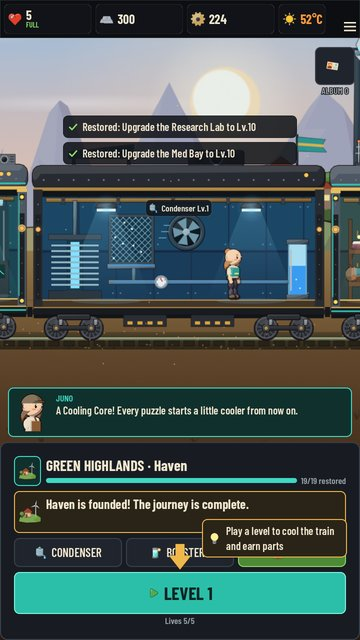
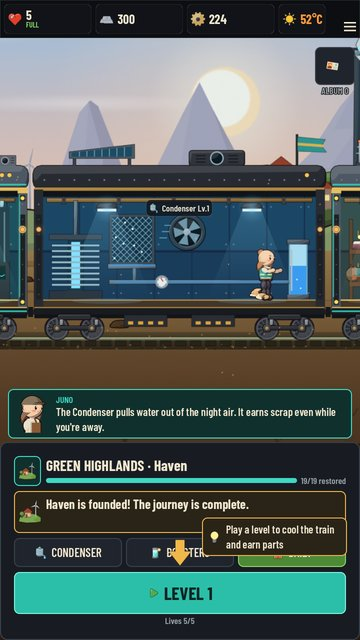
Archive as a learning project: README intro and region screenshots
- README opens with an archived-project note and what the code shows
  (Blender-scripted art, solver-proven levels, physics mini-game, meta
  systems, screenshot tour, CLI TestFlight pipeline).
- Region screenshots for all five regions. The region tour now waits for
  and closes the livery popup before each shot.
- docs/.gdignore keeps Godot from importing the README images into builds.

Claude-Session: https://claude.ai/code/session_01RjjvsUBqpS9z8nLQA6npNa

diff --git a/README.md b/README.md
@@ -1,5 +1,22 @@
 # Railhaven: Scorched Line
 
+> **Archived learning project.** Development has stopped and the game will not be released.
+> The code is shared as a reference for building a complete mobile game in Godot 4 with scripted art.
+
+What may be useful to learn from:
+- **Art made only from code**: every sprite, carriage, crew member, landmark and icon is rendered by
+  headless Blender Python scripts (`art/blender/`) with a toon material and inverted-hull outlines.
+- **Puzzle levels proven solvable**: a Python solver generates 1000 levels with 10 blocker types
+  (`tools/gen_levels.py`), and the tests replay its solutions on the real GDScript board.
+- **A physics mini-game in its own world**: pull-the-pin rescue with RigidBody2D balls in a SubViewport,
+  checked by deterministic physics tests (`tests/test_rescue.gd`).
+- **Mobile meta systems**: login calendar, win streak, story bubbles, liveries, postcard album, Heat Run,
+  weekly race, an offline-earnings carriage.
+- **A screenshot tour for layout review without a device** (`scripts/debug/shots.gd`).
+- **A pivot**: it began as an idle colony game (git tag `v0.1-idle`) and became a sort puzzle after
+  market research.
+- **iOS shipping from the command line**: Godot export, `xcodebuild` archive, TestFlight upload.
+
 Portrait mobile **coolant-sort puzzle** game with a train-restoration meta (Godot 4.7, GDScript,
 Mobile renderer with 4x MSAA 2D). The world is 60–68 °C; the colony lives on an armored train.
 Every level is a carriage overheating: sort coloured coolant canisters into one-colour tanks before the
@@ -7,7 +24,7 @@ heat gauge reaches 70 °C. Wins earn parts that restore the train, region by reg
 by restoring a landmark. The idle colony version is preserved at git tag `v0.1-idle`.
 All art is made in **Blender** from Python scripts in `art/blender/`.
 
-Current version: **0.0.3** (iOS build 9), distributed through TestFlight.
+Last version: **0.0.3** (iOS build 9). Earlier builds were tested through TestFlight.
 
 ## Screenshots
 
@@ -23,9 +40,15 @@ Current version: **0.0.3** (iOS build 9), distributed through TestFlight.
 <img src="docs/screenshots/07_race.jpg" width="180" alt="Weekly race">
 <img src="docs/screenshots/08_highlands.jpg" width="180" alt="Green Highlands, the last region">
 </p>
+<p>
+<img src="docs/screenshots/09_desert.jpg" width="180" alt="Scorched Desert, region 1">
+<img src="docs/screenshots/10_ash_coast.jpg" width="180" alt="Ash Coast, region 2">
+<img src="docs/screenshots/11_glass_flats.jpg" width="180" alt="Glass Flats, region 3">
+<img src="docs/screenshots/12_drowned_city.jpg" width="180" alt="Drowned City, region 4">
+</p>
 
 Home · landmark boss with combo charges · conveyor level · win popup · Juno and Sandy the fox ·
-pull-the-pin rescue · weekly race · Green Highlands. Refresh them with the screenshot tour (see Test).
+pull-the-pin rescue · weekly race · Green Highlands. Second row: the other four regions. Refresh them with the screenshot tour (see Test).
 
 ## Art pipeline (Blender only)
 
